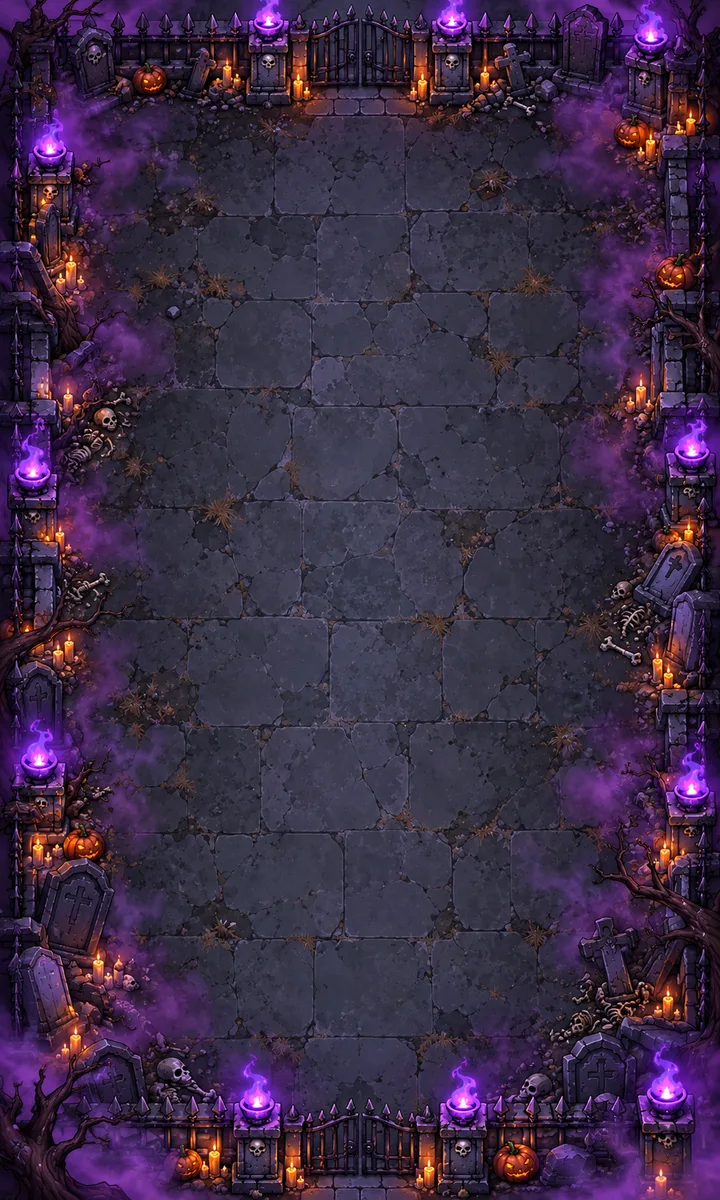
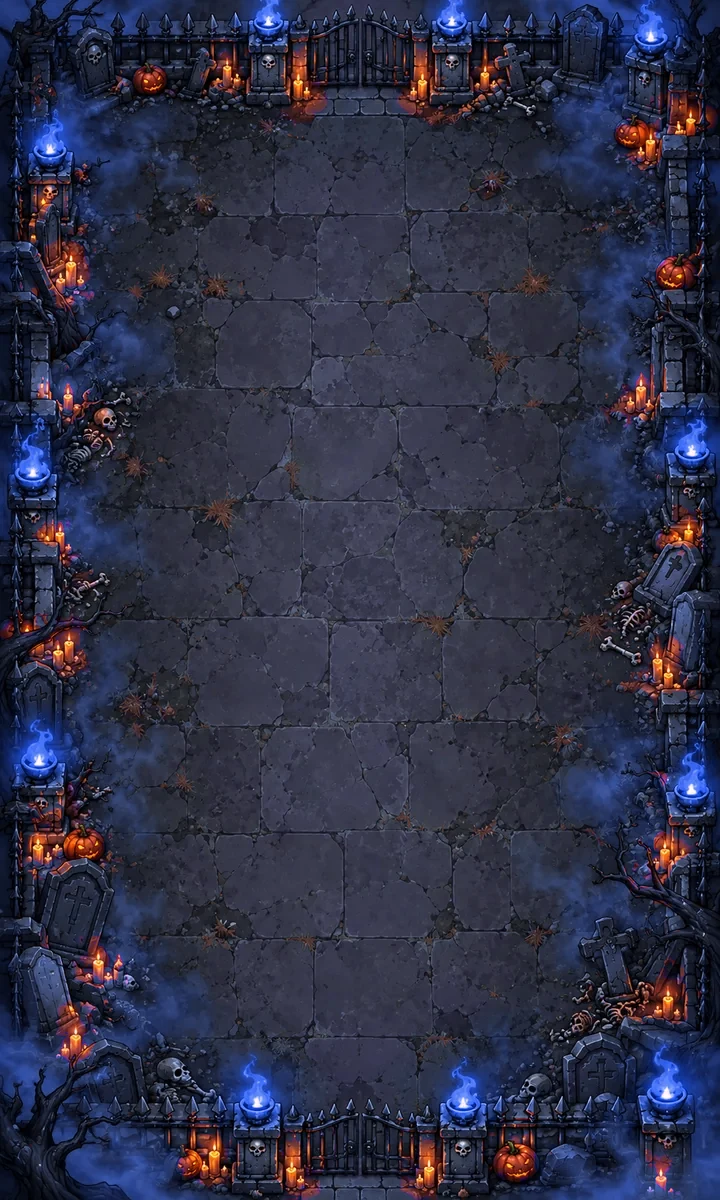
feat(tactics): fixed bench seats, board half a cell lower, bluer world 8 floor (v1.13.30)

diff --git a/bug-hunter/src/main.ts b/bug-hunter/src/main.ts
@@ -9,7 +9,7 @@ import { DAILY_ODDS, DAILY_WHEEL, dailyLeft, dailyReady, openDaily, type DailyPr
 import { audio, BOSS_SONGS, type Sfx, type SongPick } from './audio';
 import { MID_ART, boardBackdropBounds, draw, drawRetroFigure, preloadBoardBossFx, preloadCast, preloadFx, type Palette, type View } from './draw';
 import { DEFAULT_NAME, NAME_MAX, NET_ID, STAR_COLORS, cleanName, wipeProgress, worldWon, loadSave, profileLevel, writeSave, STYLES, SKINS, SKIN_PRICE, SKIN_GATE, skinOpen, type EnemyStyle, type HeroSkin, type PlayMode, heroKey, heroStill } from './save';
-import { ABILITY, ABIL_V, BENCH_CAP, canFight, CELL, COLS, FINAL_ID, HOME_ROW, NATIVE_WORLD_BONUS, ROWS, ROUNDS, SYNERGY, TACTICS, armyCap, deployBench, sellBench, storeOnBench, toggleAutoMerge, tickMerge, autoMergePrice, buyAutoMerge, summon as boardSummon, summonPrice, commanderStrike, roundBonus, roundGold, synergies, TIER_KIND, boardCoins, buy as boardBuy, castLook, moveUnit, newBoard, nextRound, pieceAt, reroll as boardReroll, saleOf, sell as boardSell, startFight, startOnlineFight, unitStats, updateBoard, waveSpots, waveUnitStats, type BoardGame, type Online, type Piece, type Variant } from './board';
+import { ABILITY, ABIL_V, BENCH_CAP, canFight, moveBenchSeat, CELL, COLS, FINAL_ID, HOME_ROW, NATIVE_WORLD_BONUS, ROWS, ROUNDS, SYNERGY, TACTICS, armyCap, deployBench, sellBench, storeOnBench, toggleAutoMerge, tickMerge, autoMergePrice, buyAutoMerge, summon as boardSummon, summonPrice, commanderStrike, roundBonus, roundGold, synergies, TIER_KIND, boardCoins, buy as boardBuy, castLook, moveUnit, newBoard, nextRound, pieceAt, reroll as boardReroll, saleOf, sell as boardSell, startFight, startOnlineFight, unitStats, updateBoard, waveSpots, waveUnitStats, type BoardGame, type Online, type Piece, type Variant } from './board';
 import { cleanCode, dial, hostGame, joinGame, leave as netLeave, presence, presenceOn, presenceReady, send as netSend, type NetHandlers, type NetMsg, type NetProfile, type NetState, type Together } from './net';
 import { ABILITY_ICON, ABILITY_PIC, SYNERGY_PIC, FIREBALL, boardMerged, boardUnitBounds, drawBoard, mirrorFight, drawBoardDrag, layoutBoard, slotAt, type BoardDrag, type BoardLayout, type HeroPics } from './boardView';
 import type { Enemy } from './world';
@@ -2562,9 +2562,9 @@ function renderBoardUi() {
     ? `<button class="board-card${b.variant === 'tactics' ? ` is-r${o.tier}${starsUp(o) ? ' is-up' : ''}${o.cast === b.world ? ' is-native' : ''}` : ''}${o.tier >= 3 ? ' is-boss' : ''}" type="button" data-bact="buy" data-i="${i}"${!prep ? ' disabled' : b.gold < o.price ? ' aria-disabled="true"' : ''}><i class="board-cast">${b.variant === 'tactics' ? boardCastIcon(o.cast) : t('worldShort', { n: o.cast })}</i><img src="${boardPic(o.tier, o.cast)}" alt="">${b.variant === 'tactics' && o.cast === b.world ? `<em class="board-native-bonus">+${Math.round(NATIVE_WORLD_BONUS * 100)}%</em>` : ''}${b.variant === 'tactics' && starsUp(o) ? '<em class="board-up">★↑</em>' : ''}<b>${boardCharacterName(o.tier, o.cast)}</b><span class="board-price">${coin} ${o.price}</span></button>`
     : '<span class="board-card is-sold"></span>').join('');
   const capLabel = `<span class="board-count" aria-label="${t('boardCapLabel')}">♟ ${b.army.length}/${armyCap(b.round)}</span>`;
-  const bench = !fusion ? `<div class="board-bench-head"><small class="board-bench-title">${t('boardBench')} · ${b.bench.length}/${BENCH_CAP}</small>${capLabel}</div><div class="board-bench-slots" style="${benchStyle(b.world)}">${Array.from({ length: BENCH_CAP }, (_, i) => { const p = b.bench[i]; return p
-    ? `<button type="button" class="board-bench-slot is-world-${p.cast} is-t${p.tier}" data-bact="bench-deploy" data-i="${i}" aria-label="${t('boardBenchDeploy', { name: boardCharacterName(p.tier, p.cast) })}"${!prep || b.online?.waiting ? ' disabled' : ''}><img data-trim="${boardPic(p.tier, p.cast)}" src="${trimmedPics.get(boardPic(p.tier, p.cast)) ?? boardPic(p.tier, p.cast)}" alt=""><em class="bench-stars is-s${p.star ?? 1}">${'<i></i>'.repeat(p.star ?? 1)}</em></button>`
-    : '<span class="board-bench-slot is-empty"></span>'; }).join('')}</div>` : '';
+  const bench = !fusion ? `<div class="board-bench-head"><small class="board-bench-title">${t('boardBench')} · ${b.bench.length}/${BENCH_CAP}</small>${capLabel}</div><div class="board-bench-slots" style="${benchStyle(b.world)}">${Array.from({ length: BENCH_CAP }, (_, seat) => { const p = b.bench.find((q) => q.slot.r === seat); const i = p ? b.bench.indexOf(p) : -1; return p
+    ? `<button type="button" class="board-bench-slot is-world-${p.cast} is-t${p.tier}" data-seat="${seat}" data-bact="bench-deploy" data-i="${i}" aria-label="${t('boardBenchDeploy', { name: boardCharacterName(p.tier, p.cast) })}"${!prep || b.online?.waiting ? ' disabled' : ''}><img data-trim="${boardPic(p.tier, p.cast)}" src="${trimmedPics.get(boardPic(p.tier, p.cast)) ?? boardPic(p.tier, p.cast)}" alt=""><em class="bench-stars is-s${p.star ?? 1}">${'<i></i>'.repeat(p.star ?? 1)}</em></button>`
+    : `<span class="board-bench-slot is-empty" data-seat="${seat}"></span>`; }).join('')}</div>` : '';
   // The bench stays in view through the fight too, its reserves dimmed (they do not fight).
   boardBenchEl.hidden = fusion || !(prep || b.phase === 'fight');
   boardBenchEl.setAttribute('aria-label', t('boardBench'));
@@ -2665,7 +2665,8 @@ window.addEventListener('pointerup', (event) => {
   hideBoardTooltip();
   if (down.held || down.moved) cardClickBlockUntil = performance.now() + 350;
   if (!b || !down.moved || !down.canBuy) { boardDrag = null; return; }
-  const over = boardDrag?.over;
+  const seat = b.variant === 'tactics' ? benchSeatAt(event.clientX, event.clientY) : -1;
+  const over = seat >= 0 ? { c: -1, r: seat } : boardDrag?.over;
   boardDrag = null;
   const offer = b.shop[down.i];
   if (!over || !offer) return;
@@ -2930,6 +2931,8 @@ function boardStep(dt: number, now: number) {
     const gridWidth = COLS * CELL * boardLay.sx;
     boardLay.ox = (fieldWidth - gridWidth) / 2;
   }
+  // Phone Tactics: the whole board, its wall too, half a cell lower, over the bench's top.
+  if (mobileTactics) boardLay.oy += CELL * boardLay.s * 0.5;
   // Desktop keeps the reserve floating beside the grid. Mobile Tactics owns the
   // reserve through boardMobileTray, so never apply viewport coordinates to its
   // child: when that child is positioned for the caption overlay, left/top would
@@ -3044,8 +3047,17 @@ function isBoardSellPoint(clientX: number, clientY: number) {
   const top = Math.max(rect.top, shop.top), bottom = Math.min(rect.bottom, shop.bottom);
   return right > left && bottom > top && clientX >= left && clientX < right && clientY >= top && clientY < bottom;
 }
+/** The bench seat under a point (its column across the bench), or -1. */
+function benchSeatAt(clientX: number, clientY: number) {
+  if (boardBenchEl.hidden) return -1;
+  for (const el of boardBenchEl.querySelectorAll<HTMLElement>('[data-seat]')) {
+    const r = el.getBoundingClientRect();
+    if (clientX >= r.left - 6 && clientX < r.right + 6 && clientY >= r.top - r.height && clientY < r.bottom + r.height * 0.6) return Number(el.dataset.seat);
+  }
+  return -1;
+}
 function isBoardBenchPoint(clientX: number, clientY: number) {
-  if (!board || board.variant !== 'tactics' || board.phase !== 'prep' || board.bench.length >= BENCH_CAP || boardBenchEl.hidden) return false;
+  if (!board || board.variant !== 'tactics' || board.phase !== 'prep' || boardBenchEl.hidden) return false;
   const rect = boardBenchEl.getBoundingClientRect();
   return clientX >= rect.left && clientX < rect.right && clientY >= rect.top && clientY < rect.bottom;
 }
@@ -3108,6 +3120,9 @@ function boardPointerUp(event: PointerEvent) {
     } else if (!onBench && target) {
       if (deployBench(b, index, target)) audio.play('click');
       else flash(t('boardBenchNoRoom'));
+    } else if (onBench) {
+      const seat = benchSeatAt(event.clientX, event.clientY);
+      if (seat >= 0 && moveBenchSeat(b, index, seat)) audio.play('click');
     }
     hideBoardTooltip();
     boardKey = '';
@@ -3124,7 +3139,7 @@ function boardPointerUp(event: PointerEvent) {
   const drag = { piece: down.piece, over: slotAt(boardLay, event.clientX - canvas.getBoundingClientRect().left, event.clientY - canvas.getBoundingClientRect().top) };
   const from = drag.piece.slot;
   if (isBoardBenchPoint(event.clientX, event.clientY)) {
-    if (storeOnBench(b, from)) { audio.play('click'); flash(t('boardBench')); }
+    if (storeOnBench(b, from, benchSeatAt(event.clientX, event.clientY))) { audio.play('click'); flash(t('boardBench')); }
     else flash(t('boardBenchFull'));
     boardKey = '';
     renderBoardUi();

diff --git a/bug-hunter/src/board.ts b/bug-hunter/src/board.ts
@@ -477,20 +477,25 @@ export function summon(b: BoardGame): 'ok' | 'gold' | 'full' | 'none' {
 
 /** Tactics: buying a matching card raises the existing copy a star, keeping its character and cell.
     Another copy at the new star continues the chain, up to three stars. */
+/** The bench's four seats are fixed: a reserve keeps the seat it was put on (`slot.r`), and gaps are allowed. */
+export const freeSeat = (b: BoardGame) => { for (let r = 0; r < BENCH_CAP; r++) if (!b.bench.some((p) => p.slot.r === r)) return r; return -1; };
+const seatTaken = (b: BoardGame, seat: number) => b.bench.find((p) => p.slot.r === seat);
 function buyTactics(b: BoardGame, i: number, offer: NonNullable<Offer>, where?: Slot) {
   const same = (p: Piece, star: Star) => p.tier === offer.tier && p.cast === offer.cast && starOf(p) === star;
   const pair = [...b.army, ...b.bench].filter((p) => same(p, 1));
   if (pair.length < TACTICS.copies - 1 && b.army.length >= armyCap(b.round) && b.bench.length >= BENCH_CAP) return false;
   // Dragged onto a free cell of your half it lands there; tapped, on the first free cell from the back row up.
   const chosen = where && homeCell(where) && !pieceAt(b, where) ? where : null;
+  // Dragged onto a free bench seat it goes there, whatever room the board has.
+  const seat = where && where.c === -1 && where.r >= 0 && where.r < BENCH_CAP && !seatTaken(b, where.r) ? where.r : -1;
   // Empty grid cells do not grant extra army capacity. Overflow purchases belong in reserve.
-  const at = pair.length >= TACTICS.copies - 1 || b.army.length >= armyCap(b.round) ? null : chosen ?? freeCell(b, true);
+  const at = pair.length >= TACTICS.copies - 1 || seat >= 0 || b.army.length >= armyCap(b.round) ? null : chosen ?? freeCell(b, true);
   const reserve = !at && pair.length < TACTICS.copies - 1 && b.bench.length < BENCH_CAP;
   if (!at && pair.length < TACTICS.copies - 1 && !reserve) return false;
   b.gold -= offer.price;
   b.shop[i] = rollTacticsOffer(b);
   b.events.push('buy');
-  if (reserve) { b.bench.push({ id: nextId++, tier: offer.tier, cast: offer.cast, slot: { c: -1, r: b.bench.length }, star: 1 }); return true; }
+  if (reserve) { b.bench.push({ id: nextId++, tier: offer.tier, cast: offer.cast, slot: { c: -1, r: seat >= 0 ? seat : freeSeat(b) }, star: 1 }); return true; }
   if (at) { b.army.push({ id: nextId++, tier: offer.tier, cast: offer.cast, slot: at, star: 1 }); return true; }
   let star: Star = 1;
   let keep = pair[0];
@@ -506,7 +511,6 @@ function buyTactics(b: BoardGame, i: number, offer: NonNullable<Offer>, where?: 
     group = [keep, ...next.slice(0, TACTICS.copies - 1)];
     keep = group[0];
   }
-  b.bench.forEach((piece, index) => { piece.slot.r = index; });
   if (keep.slot.c >= 0) b.lastMerge = { slot: keep.slot, id: keep.id, combo: star - 1, star };
   b.events.push('merge');
   return true;
@@ -521,8 +525,8 @@ export function deployBench(b: BoardGame, index: number, target?: Slot) {
   const other = pieceAt(b, at);
   if (other) {
     const armyIndex = b.army.indexOf(other);
+    other.slot = { c: -1, r: p.slot.r };
     p.slot = { ...at };
-    other.slot = { c: -1, r: index };
     b.army[armyIndex] = p;
     b.bench[index] = other;
     b.events.push('deploy');
@@ -531,9 +535,19 @@ export function deployBench(b: BoardGame, index: number, target?: Slot) {
   if (b.army.length >= armyCap(b.round)) return false;
   b.bench.splice(index, 1);
   p.slot = at;
-  b.bench.forEach((piece, i) => { piece.slot.r = i; });
   b.army.push(p);
   b.events.push('deploy');
+  return true;
+}
+
+/** Move a reserve to another bench seat, swapping with the one there. */
+export function moveBenchSeat(b: BoardGame, index: number, seat: number) {
+  const p = b.bench[index];
+  if (b.phase !== 'prep' || b.variant !== 'tactics' || !p || seat < 0 || seat >= BENCH_CAP || p.slot.r === seat) return false;
+  const there = seatTaken(b, seat);
+  if (there) there.slot = { c: -1, r: p.slot.r };
+  p.slot = { c: -1, r: seat };
+  b.events.push('bench');
   return true;
 }
 
@@ -543,18 +557,29 @@ export function sellBench(b: BoardGame, index: number) {
   if (b.phase !== 'prep' || b.variant !== 'tactics' || b.online?.waiting || !p) return false;
   b.gold += saleOf(p, b.variant, b.world);
   b.bench.splice(index, 1);
-  b.bench.forEach((piece, i) => { piece.slot.r = i; });
   b.events.push('sell');
   return true;
 }
 
-/** Store a fielded Tactics unit in the first free bench slot. */
-export function storeOnBench(b: BoardGame, from: Slot) {
-  if (b.phase !== 'prep' || b.variant !== 'tactics' || b.bench.length >= BENCH_CAP) return false;
+/** Store a fielded Tactics unit on a bench seat: the one it is dropped on (swapping with the reserve there, which
+    takes its cell), or the first free one. */
+export function storeOnBench(b: BoardGame, from: Slot, seat = -1) {
+  if (b.phase !== 'prep' || b.variant !== 'tactics') return false;
   const p = pieceAt(b, from);
   if (!p) return false;
+  const there = seat >= 0 ? seatTaken(b, seat) : undefined;
+  if (there) {
+    b.army[b.army.indexOf(p)] = there;
+    there.slot = { ...p.slot };
+    p.slot = { c: -1, r: seat };
+    b.bench[b.bench.indexOf(there)] = p;
+    b.events.push('bench');
+    return true;
+  }
+  const to = seat >= 0 && seat < BENCH_CAP ? seat : freeSeat(b);
+  if (to < 0) return false;
   b.army = b.army.filter((unit) => unit !== p);
-  p.slot = { c: -1, r: b.bench.length };
+  p.slot = { c: -1, r: to };
   b.bench.push(p);
   b.events.push('bench');
   return true;

diff --git a/bug-hunter/src/game.css b/bug-hunter/src/game.css
@@ -5127,3 +5127,6 @@ canvas.hero-fig { height: 150px; width: 135px; filter: none; }
   :root:not([data-retro]) .board-bench-float .board-bench-slot > em.bench-stars { bottom: calc(var(--bench-unit) * var(--u) - 20%); }
   :root:not([data-retro]) .board-bench-float { padding-top: 40px; }
 }
+
+/* v1.13.30 — the phone bench higher. */
+@media (max-width: 899px) { :root:not([data-retro]) .board-mobile-tray.is-active .board-bench-slots { transform: translate(-50%, -24px); } }

diff --git a/bug-hunter/src/version.ts b/bug-hunter/src/version.ts
@@ -4,7 +4,7 @@
  * This folder migration preserves the public game URL, saves and gameplay.
  * The build stamp changes automatically on each deployment.
  */
-export const GAME_VERSION = '1.13.29';
+export const GAME_VERSION = '1.13.30';
 
 declare const __GAME_BUILD__: { commit: string; built: string };
 /** Build stamp from the shared Vite configuration; safe outside Vite too. */

diff --git a/bug-hunter/CHANGELOG.md b/bug-hunter/CHANGELOG.md
@@ -4,6 +4,14 @@
 
 This changelog tracks game-version changes starting with v1.12.55. Earlier releases are not reconstructed here.
 
+## 1.13.30 - 2026-10-24
+
+### Changed - Bench seats, board position and world 8's colours
+- Bench seats are fixed: a reserve keeps the seat it is put on and gaps are allowed (`slot.r`, `freeSeat`, `moveBenchSeat` in `board.ts`). A shop card or a board unit dragged onto a seat goes to that seat (onto an occupied seat a board unit swaps with the reserve there); a reserve dragged onto another seat moves there, swapping. A tapped card that overflows still takes the first free seat.
+- Phone Tactics: the bench sits higher (24 px) and the whole board, wall included, half a cell lower.
+- World 8's floor (`floors/world8.webp`, used by every mode) has its purple mist and flames turned blue, like its bench; the orange candles stay.
+- New regression check for the bench seats (28 in all).
+
 ## 1.13.29 - 2026-10-24
 
 ### Changed
